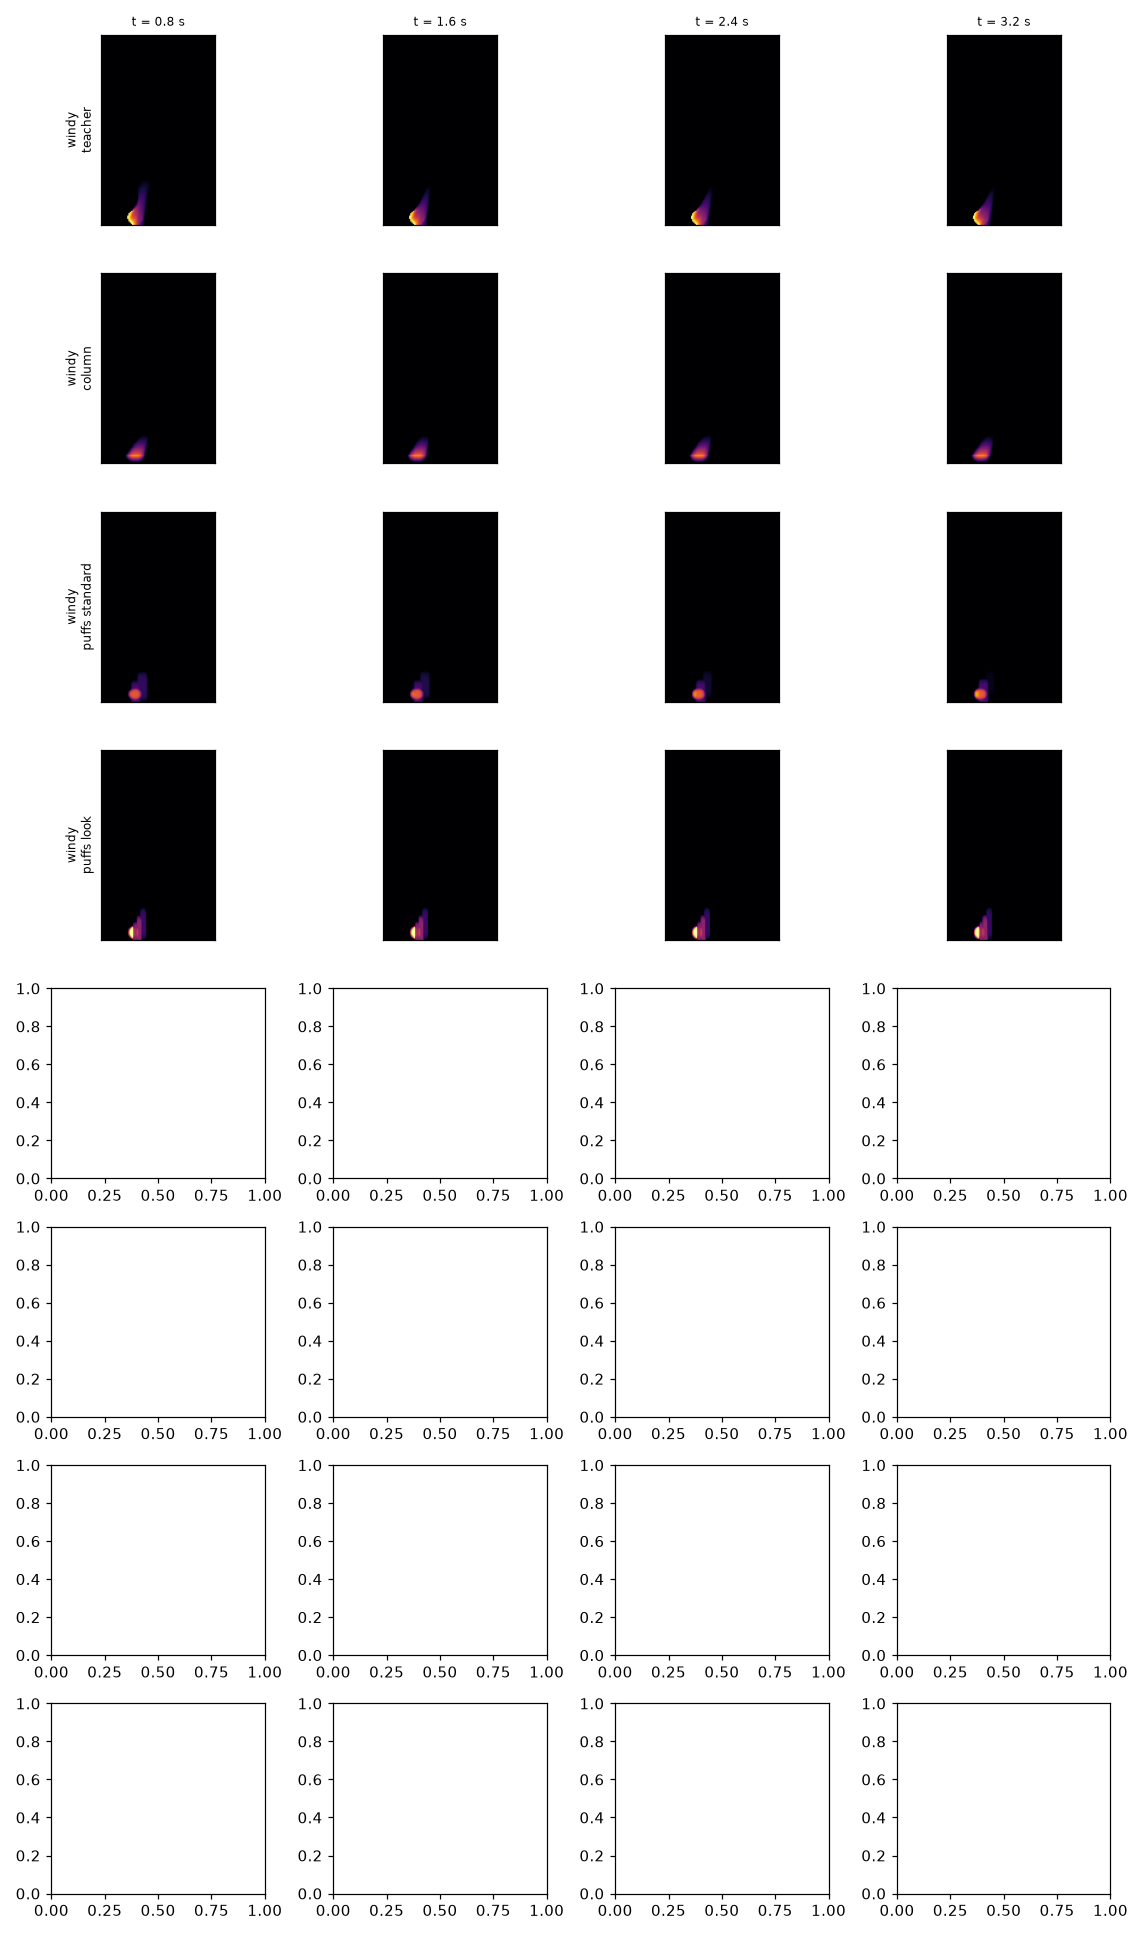
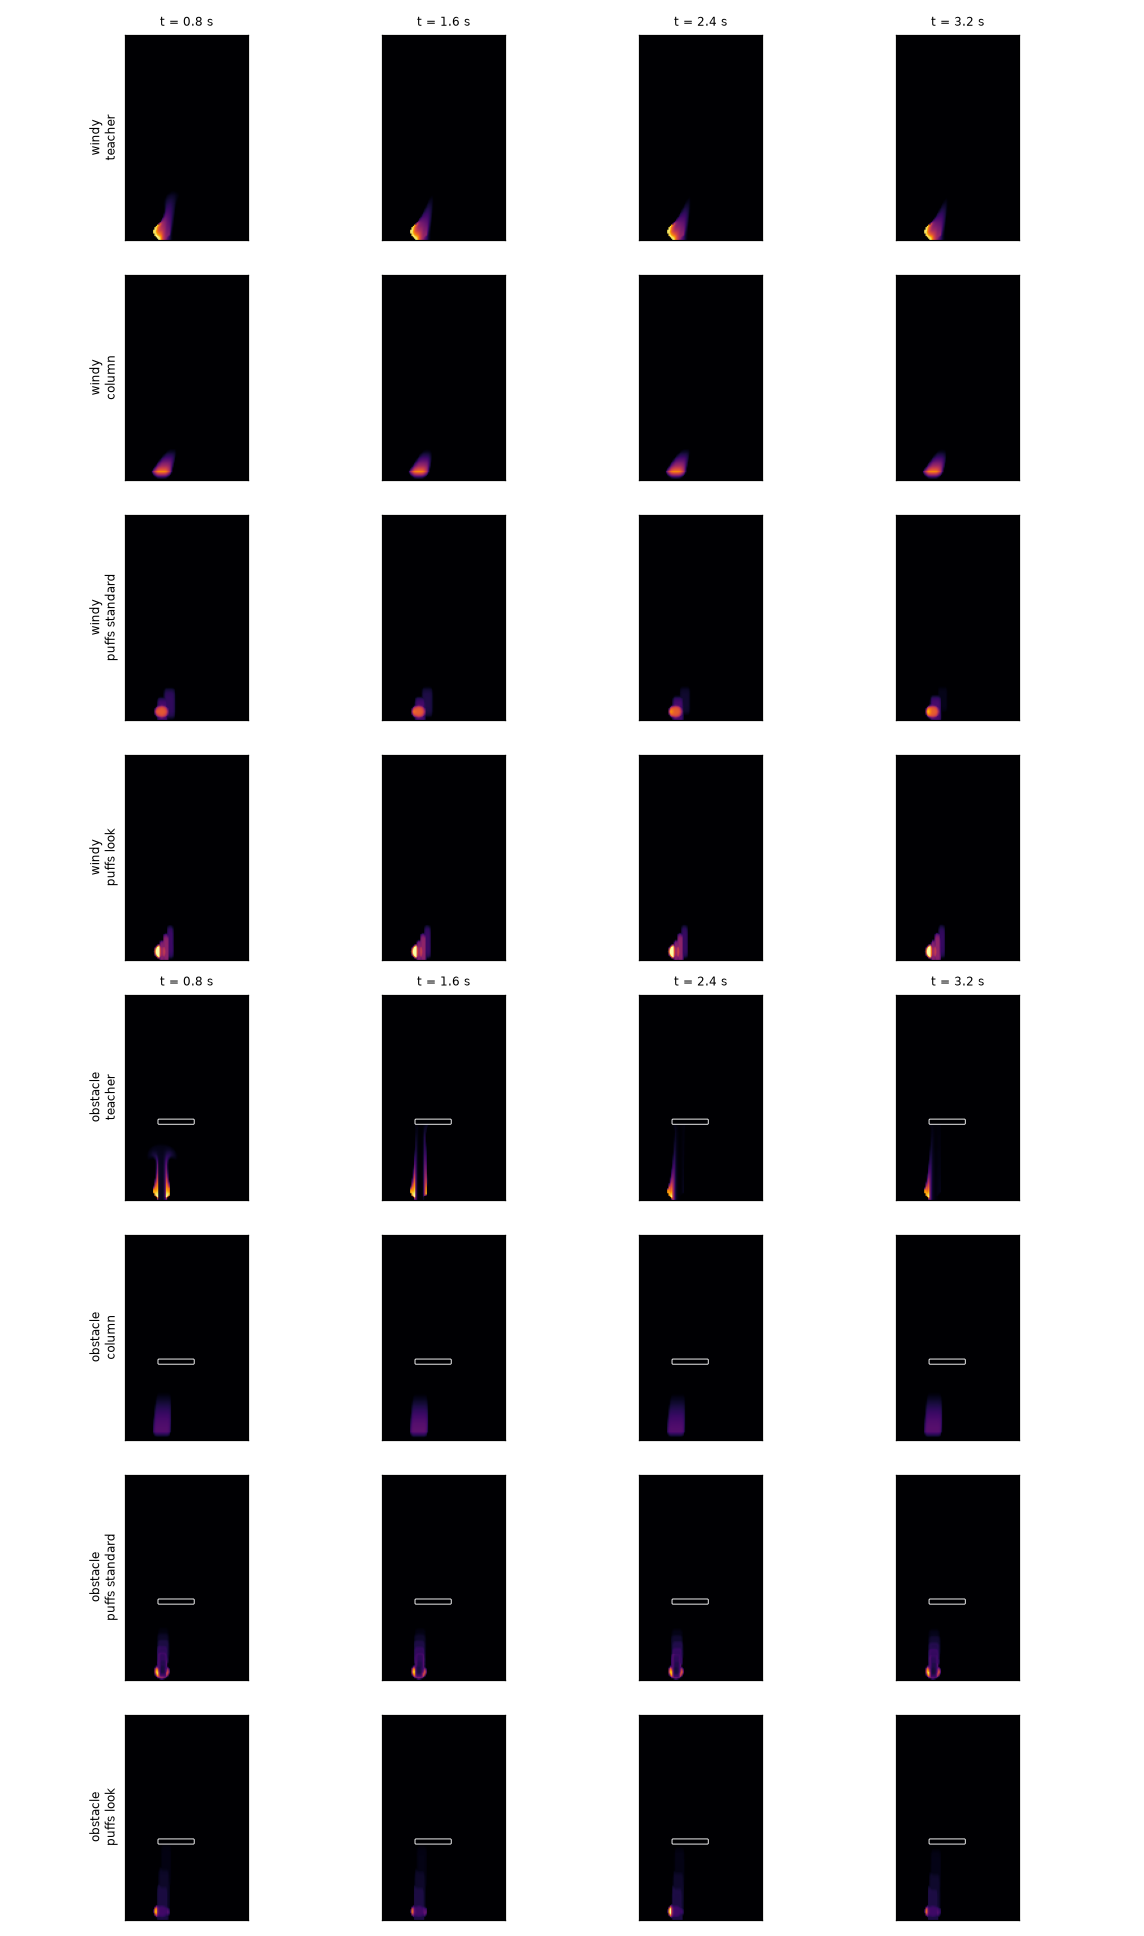
F4 preregistration frozen: puff grammar against the column on seven unseen scenes
Pilot round three on the two seen scenes: the standard fit beats the column grammar on both
(windy 0.329 vs 0.385, obstacle 0.432 vs 0.460) and on every consumer; glow correlation 0.90 to
0.92 on windy and 0.78 to 0.80 on obstacle; the two optimisers agree within 1 percent on three of
four fits. Bars are set at what the pilot showed reachable: median glow correlation >= 0.80 at
the look fit, standard floor below the column's best-known on 6 of 7 unseen scenes, burn and
passable decisions <= 5 percent wrong, missed alight <= 25 percent, <= 24 parcels per source,
greedy >= 0.80 of the floor. F3's absolute 0.35 is reached on windy and not on obstacle, so no
absolute floor bar is frozen. Outcome tree is exclusive on B1 and B2. No unseen scene has been
run; the pilot's states are not used as starts.

Claude-Session: https://claude.ai/code/session_01NhsDKV4Hj74paroP3vTa7w

diff --git a/docs/math-track-f4-prereg.md b/docs/math-track-f4-prereg.md
@@ -60,7 +60,49 @@ reason F3 gave: to know whether a bar is reachable before freezing it.
 Its numbers are in `poc/results/puff_pilot.log` and are repeated here
 so that what the bars were set against is on record.
 
-PILOT_PLACEHOLDER
+The pilot ran three rounds, each of which changed something, and the
+grammar and protocol above are what the third round left:
+
+1. **Round one** summed parcel temperatures. Slow parcels near the source
+   piled into thousands of kelvin, the fitter shrank the train until it
+   was invisible, and both scenes fitted a hot disc. Temperature is
+   intensive; the combination is now a maximum.
+2. **Round two** (maximum combination, three Powell starts, standard and
+   look objectives) still parked every start in a disc-plus-invisible-
+   train optimum. Hand-built hot trains beat the fitted states, so the
+   optimiser was leaving value on the table; a train-only-then-all fit
+   on `windy` found 0.339 with glow correlation 0.93; seeded differential
+   evolution on `obstacle` found 0.41 on the look objective where the best
+   local start found 0.53. Pictures showed parcels flying through the
+   shelf or pushed to its far edge while the teacher's column ends at the
+   shelf. Three changes followed: shelf blocking, the profile exponent,
+   and the DE-plus-two-stage floor protocol.
+3. **Round three** is the grammar and protocol frozen here:
+
+| scene | objective | fit (de, two-stage) | standard error | column best-known | per consumer (vis, heat, ai) | burn wrong | passable wrong | glow corr | parcels |
+|---|---|---|---|---|---|---|---|---|---|
+| windy | standard | 0.329 (0.332, 0.329) | **0.329** | 0.385 | 0.474, 0.135, 0.286 | 0.6% | 0.4% | 0.90 | 6 |
+| windy | look | 0.255 (0.255, 0.257) | 0.354 | 0.385 | 0.515, 0.184, 0.279 | 0.9% | 0.5% | **0.92** | 7 |
+| obstacle | standard | 0.432 (0.432, 0.471) | **0.432** | 0.460 | 0.655, 0.137, 0.335 | 1.5% | 1.1% | 0.78 | 14 |
+| obstacle | look | 0.370 (0.370, 0.390) | 0.489 | 0.460 | 0.741, 0.144, 0.384 | 2.7% | 3.2% | **0.80** | 12 |
+
+The standard fit beats the column grammar on both seen scenes, by 15 and
+6 percent, and on every consumer. The look fit raises the glow
+correlation by 0.02 on each scene at a cost in linear error, and on
+`obstacle` its state misses 59 percent of hazard cells: the tone-mapped
+objective buys glow with hazard. The two optimisers agree within 1
+percent on three of four fits and DE wins the fourth by 9 percent. Glow
+correlation reached 0.92 on the simplest scene and 0.80 on the shelf
+scene; the 0.90 proposed in `docs/fire-decisions.md` is therefore not
+reachable as a median over scenes that are harder than `windy`, and the
+bar below is set at what the shelf scene reached. F3's absolute floor of
+0.35 is reached on `windy` and not on `obstacle`, so no absolute floor
+bar is frozen; the floor bar is relative to the column grammar, which is
+the question this experiment exists to answer.
+
+The pilot's fitted states are not used anywhere in the unseen run. Its
+starts are the DE Latin hypercube at seed 0 and the two-stage fit from
+V0, on every scene.
 
 ## Procedure (frozen)
 
@@ -72,13 +114,15 @@ and width, same `diagnose` and `select_projection` from
 blacklist, no stopping rule, no borrowed threshold (`NO_GATE = 1.01`).
 
 - **Standard floor.** `rgre_puffs.floor_fit` on the four standard
-  consumers: Powell from three starts (all classes on at their
-  on-states, V0, box midpoint), 40 evaluations per active parameter
-  each, minimum kept, the three values reported. Inert parameters are
-  pruned per scene as before (no bed without patches, no deflect
-  without a shelf, no attract with one burner). This is the number
-  comparable with every earlier floor, and it is "no worse than", as
-  the whole fire arc established.
+  consumers: the minimum of two candidates, both reported. Seeded
+  differential evolution (seed 0, population 12 per parameter, 30
+  generations, Latin hypercube start) followed by a Powell polish; and
+  Powell from a two-stage start, which first fits the train with the
+  hot disc, the soot and the floor held off and then hands everything
+  over. Inert parameters are pruned per scene as before (no bed without
+  patches, no deflect without a shelf, no attract with one burner).
+  This is the number comparable with every earlier floor, and it is
+  "no worse than", as the whole fire arc established.
 - **Look floor.** The same fit with the visual consumer tone-mapped,
   `glow ** (1/2.2)`, before comparison (`rgre_puffs.LookCase`). The
   pilot found that under a linear glow the sooted base holds nearly
@@ -106,7 +150,29 @@ were its out-of-vocabulary cases and are scored here.
 
 ## Bars (frozen)
 
-BARS_PLACEHOLDER
+Column reference values are the best-known floors from the fire arc and
+the decision rates of the f6 Powell states (`poc/results/column_reference.json`):
+best-known floors ignition 0.580, delayed_ignition 0.626, full 0.590,
+twin 0.503, shelf_bed 0.615, split 0.411, shutoff 0.551.
+
+- **F4-B1, glow.** Median glow correlation over the second half of the
+  run, at the look-fit state, over the seven unseen scenes `>= 0.80`.
+  For `shutoff`, where nothing glows in the second half, the full-run
+  correlation is used instead. The count of scenes at or above 0.90 is
+  reported.
+- **F4-B2, floor against the column.** The standard-fit error is below
+  the column grammar's best-known floor on at least 6 of the 7 unseen
+  scenes.
+- **F4-B3, decisions.** At the standard-fit state, median burn
+  disagreement `<= 5%` and median passable disagreement `<= 5%` over the
+  seven unseen scenes; median missed-alight `<= 25%` over the three
+  scorable bed scenes (`ignition`, `delayed_ignition`, `full`;
+  `shelf_bed`'s bed never lights in the teacher and is vacuous).
+- **F4-B4, cost.** Parcels per source at the standard-fit state `<= 24`
+  on every unseen scene.
+- **F4-B5, search.** Median greedy error reduction `>= 0.80` of the
+  standard floor's reduction, F3-B2 verbatim.
+
 
 ## Predictions, recorded before the run
 
